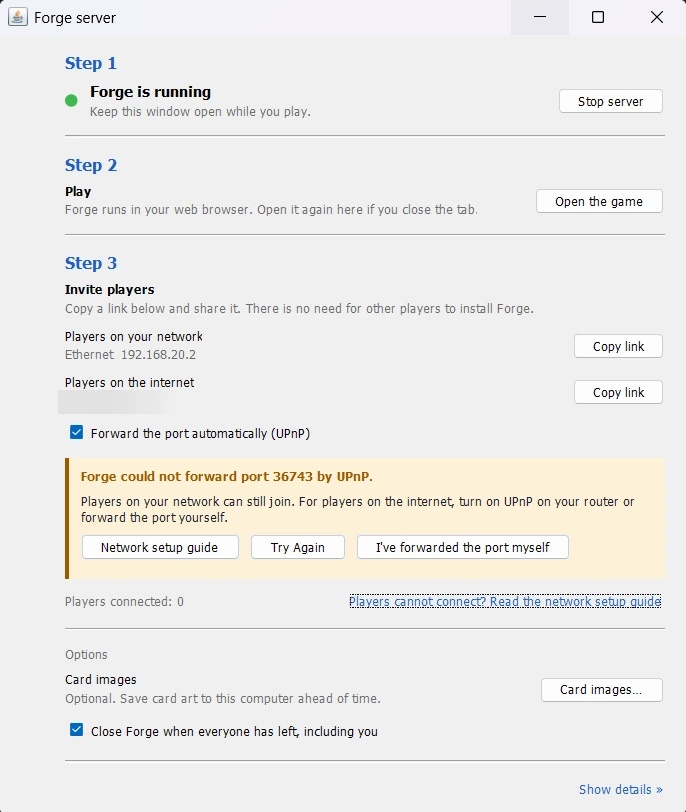
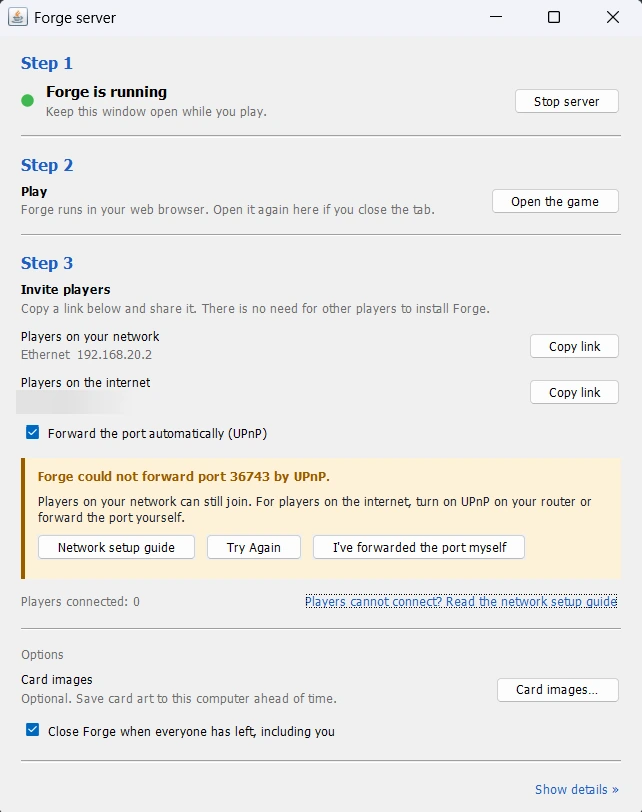
Give the server console equal margins on both sides
The row holding the details link was centred among left-aligned rows,
which pushed every other row in by half its width.

diff --git a/forge-gui-web/src/main/java/forge/web/ServerConsole.java b/forge-gui-web/src/main/java/forge/web/ServerConsole.java
@@ -436,7 +436,10 @@ final class ServerConsole implements IProgressBar {
                 row(stack(new JLabel(TEXT.getMessage("lblWebImagesTitle")), muted(TEXT.getMessage("lblWebConsoleImagesAbout"))),
                         Box.createHorizontalGlue(), imagesButton),
                 quitWhenEmpty);
-        main.add(row(Box.createHorizontalGlue(), detailsToggle));
+        final JPanel foot = row(Box.createHorizontalGlue(), detailsToggle);
+        // A row left centred would push every left-aligned one in by half its width
+        foot.setAlignmentX(0f);
+        main.add(foot);
 
         // A styled pane so errors and warnings can stand out, and it wraps long lines because a stack trace is wider than the window
         text = new JTextPane();
